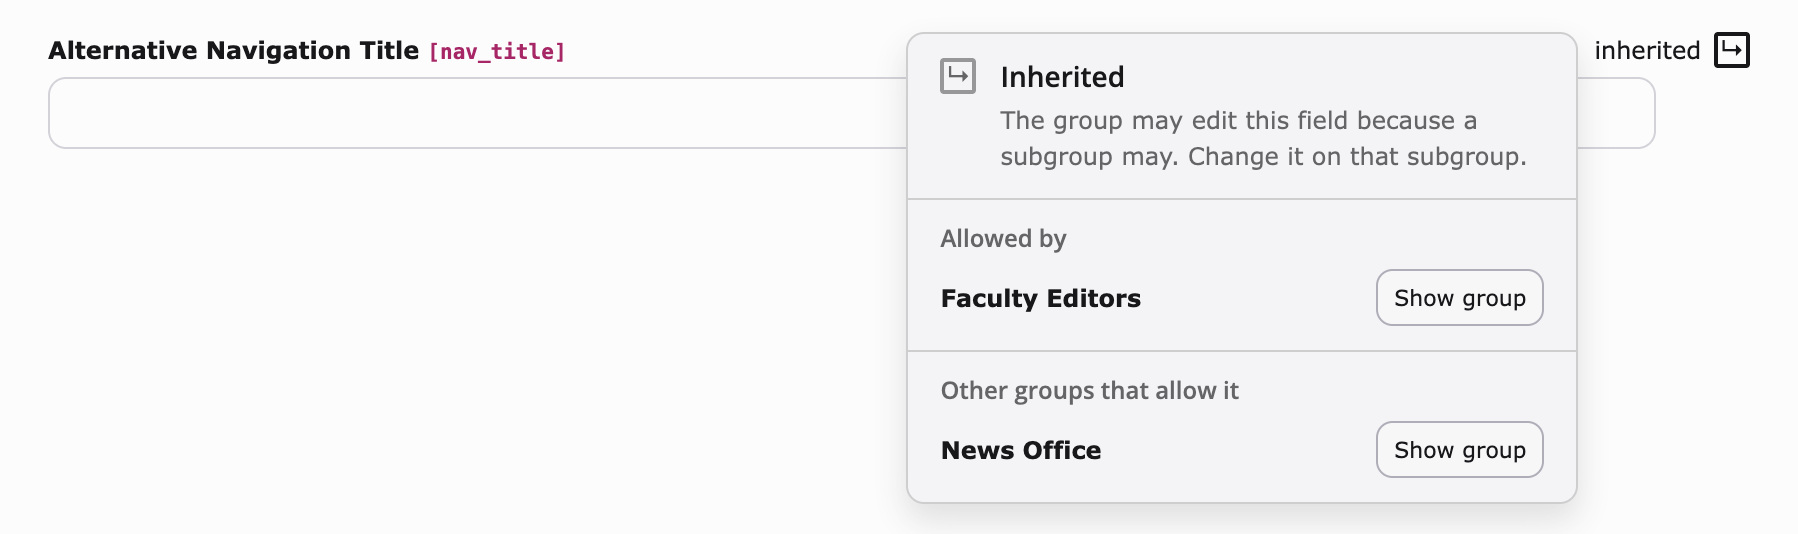
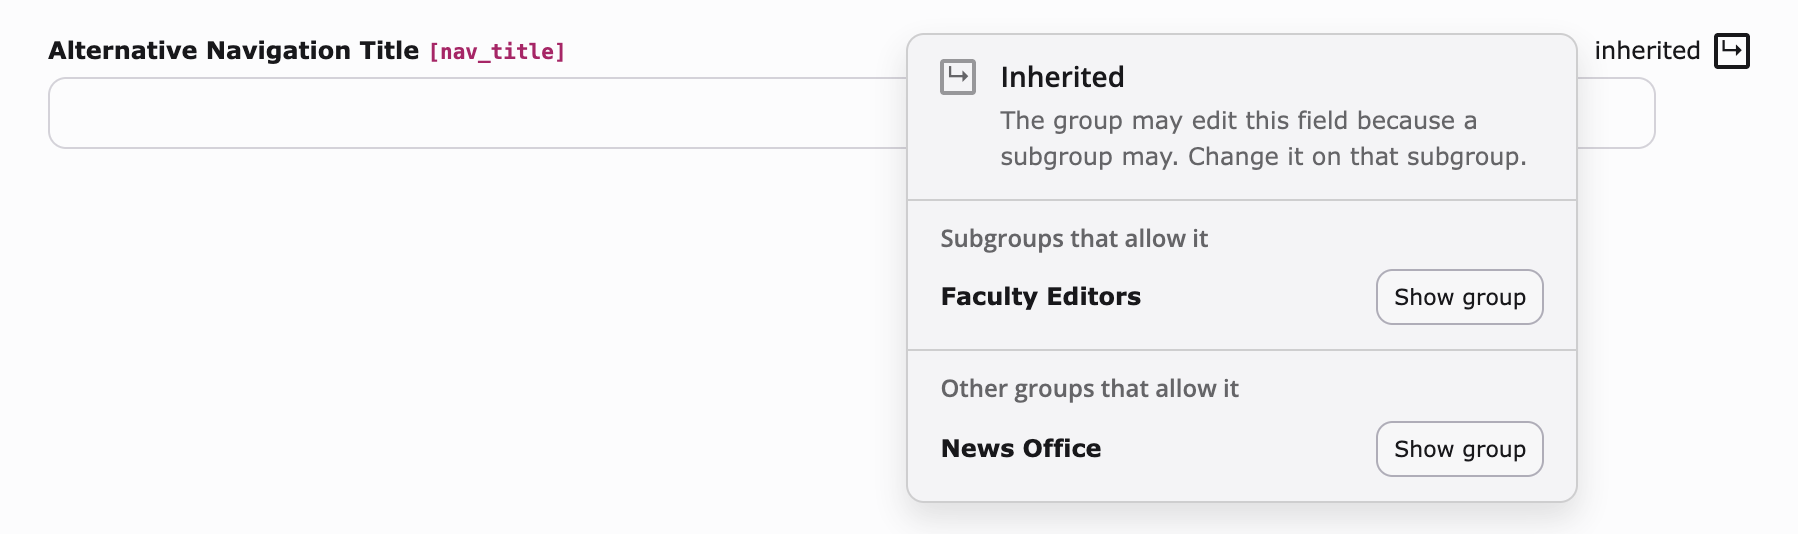
Name the subgroups that allow a field as subgroups on its card

diff --git a/Tests/E2e/tests/allow-fields/mark-card.spec.ts b/Tests/E2e/tests/allow-fields/mark-card.spec.ts
@@ -188,7 +188,7 @@ test('an inherited field names the groups that allow it, and shows one of them',
   await form.locator('[data-vperm-token="pages:nav_title"]').getByRole('button', { name: 'Inherited' }).press('Enter')
   const card = form.getByRole('dialog', { name: 'Inherited' })
 
-  await expect(card.getByRole('heading', { name: 'Allowed by' })).toBeVisible()
+  await expect(card.getByRole('heading', { name: 'Subgroups that allow it' })).toBeVisible()
   await expect(card.getByRole('listitem')).toContainText(['News Office', 'Faculty Editors'])
   await expect(card.getByRole('button', { name: 'Show group "Faculty Editors"' })).toHaveText('Show group')
   await expect(card.getByRole('button', { name: 'Show group "News Office"' })).toBeFocused()

diff --git a/Build/tests/allow-fields/mark-card.test.ts b/Build/tests/allow-fields/mark-card.test.ts
@@ -144,7 +144,7 @@ describe('a field\'s mark', () => {
 
     markOf('pages:nav_title')?.click()
 
-    expect(cardOf().querySelector('h3')?.textContent).toBe('Allowed by')
+    expect(cardOf().querySelector('h3')?.textContent).toBe('Subgroups that allow it')
     expect([...cardOf().querySelectorAll('li')].map(line => line.querySelector('span')?.textContent))
       .toStrictEqual(['Consectetur', 'Aliquam'])
     const show = [...cardOf().querySelectorAll('button')]

diff --git a/Documentation/Getting-started.md b/Documentation/Getting-started.md
@@ -59,7 +59,7 @@ cannot open the form at all, so the band says so.
 Each field carries a square at the end of its heading. Point at it, or press it, and a card
 says what the square means.
 
-- **Allowed by** names the subgroups the field comes from.
+- **Subgroups that allow it** names the subgroups the field comes from.
 - **Other groups that allow it** names every other group that gives the field.
 
 **Show group** switches to that group, on the same form.

diff --git a/CHANGELOG.md b/CHANGELOG.md
@@ -11,6 +11,10 @@ and this project adheres to [Semantic Versioning](https://semver.org/spec/v2.0.0
 
 - A field's card in **Records and fields** names the other groups that allow the field.
 
+### Changed
+
+- A field's card heads the groups a field is inherited from "Subgroups that allow it".
+
 ### Fixed
 
 - The form as the group gets it says why it is empty when the group may only read the table.
